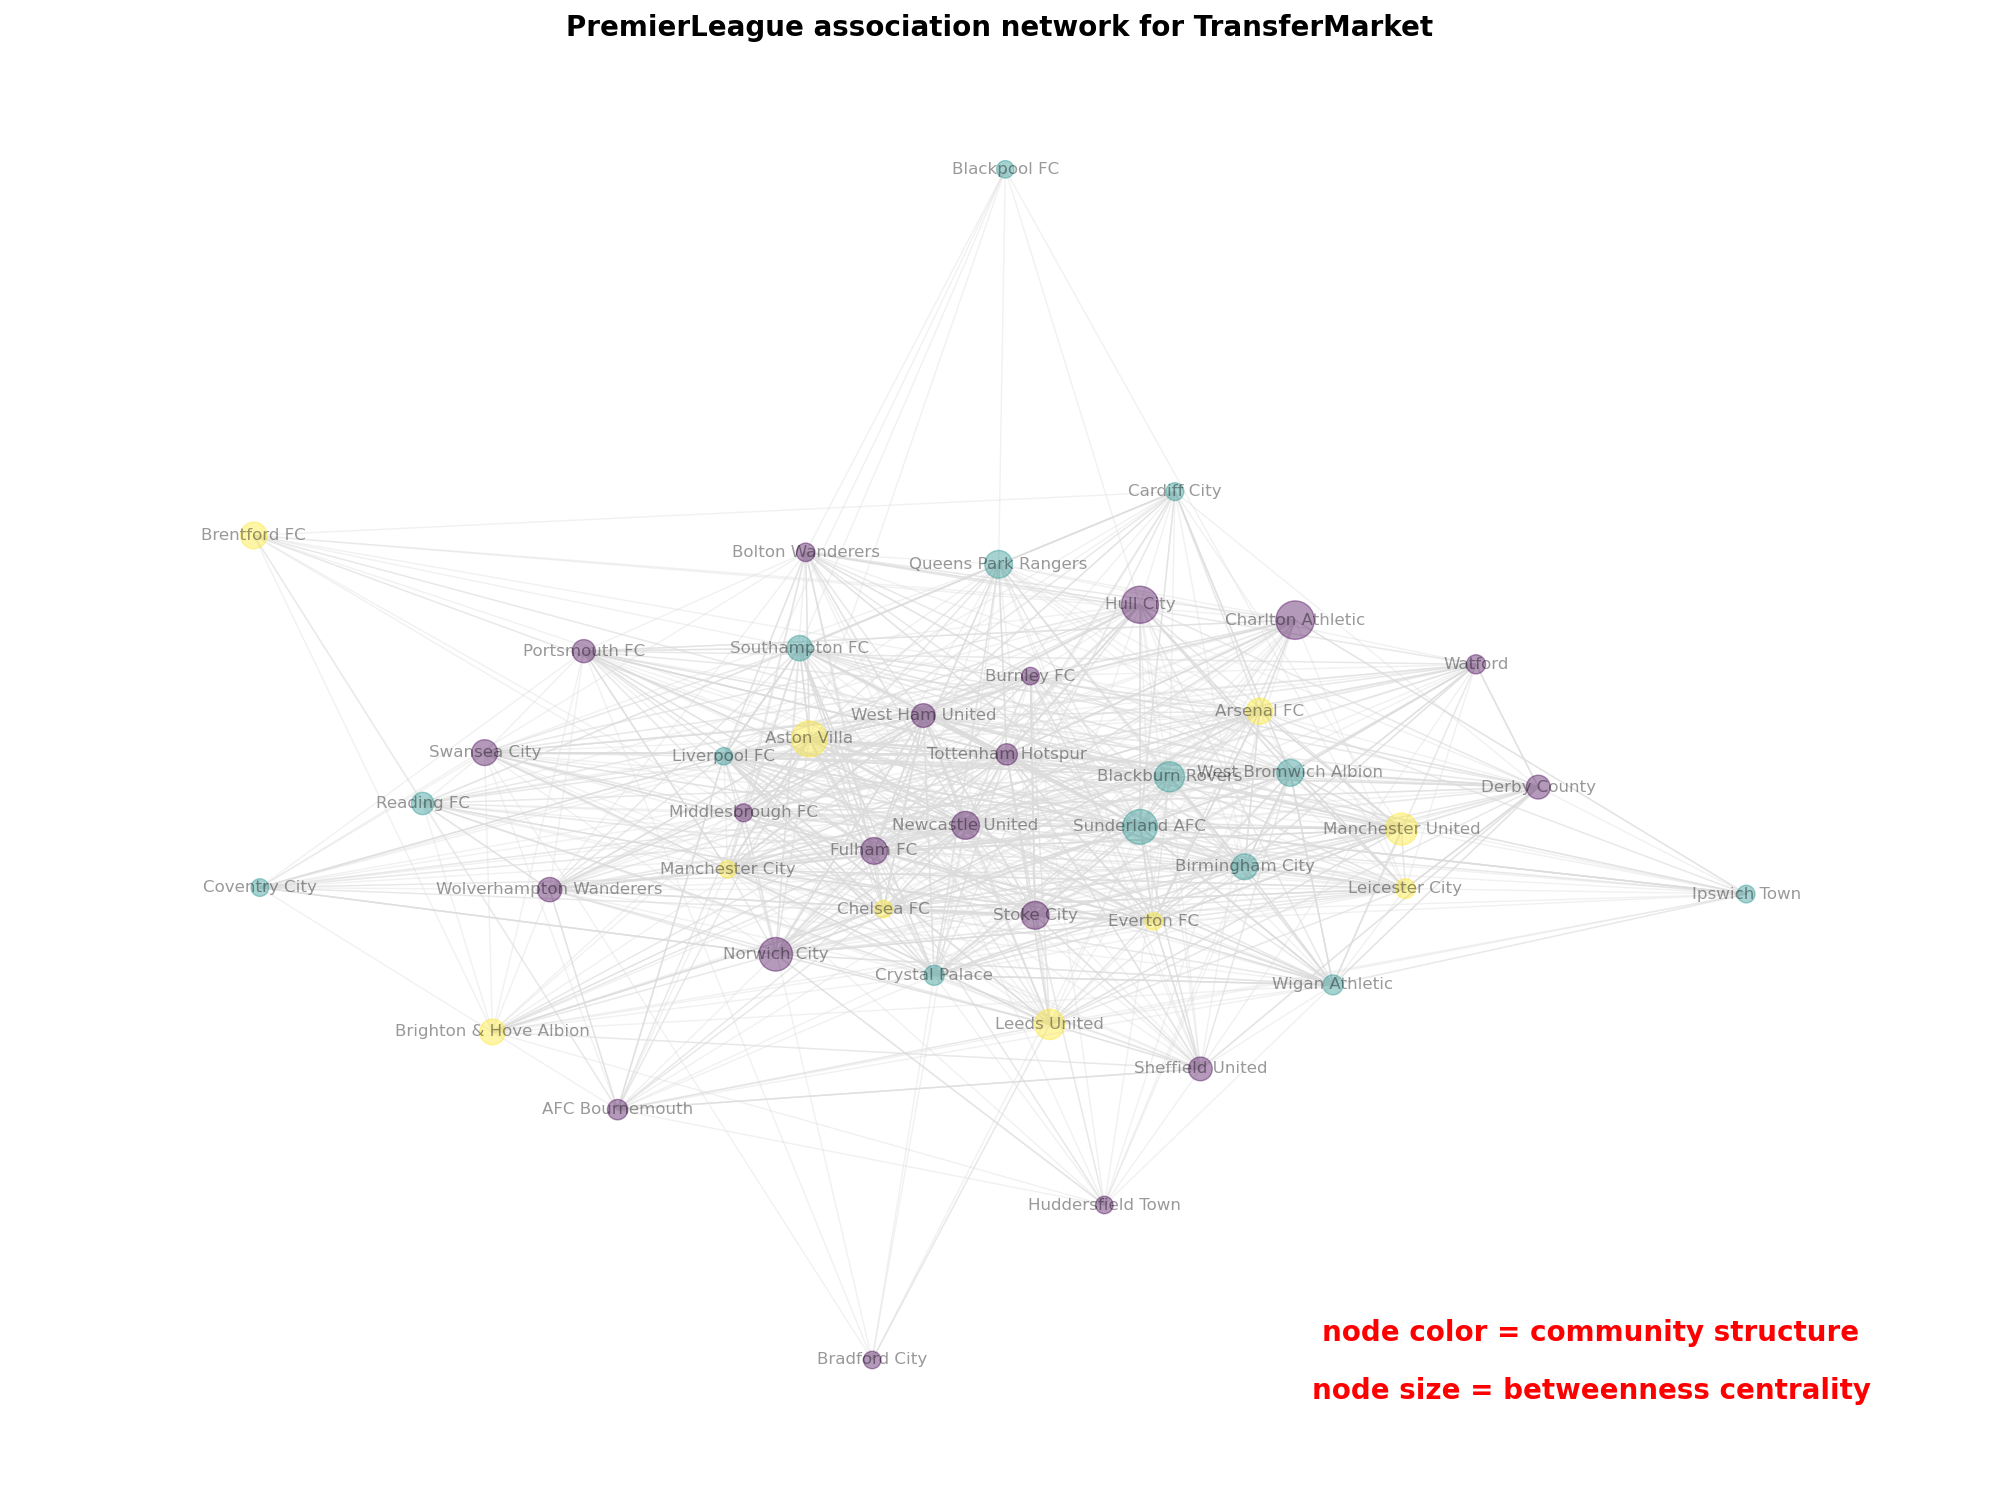
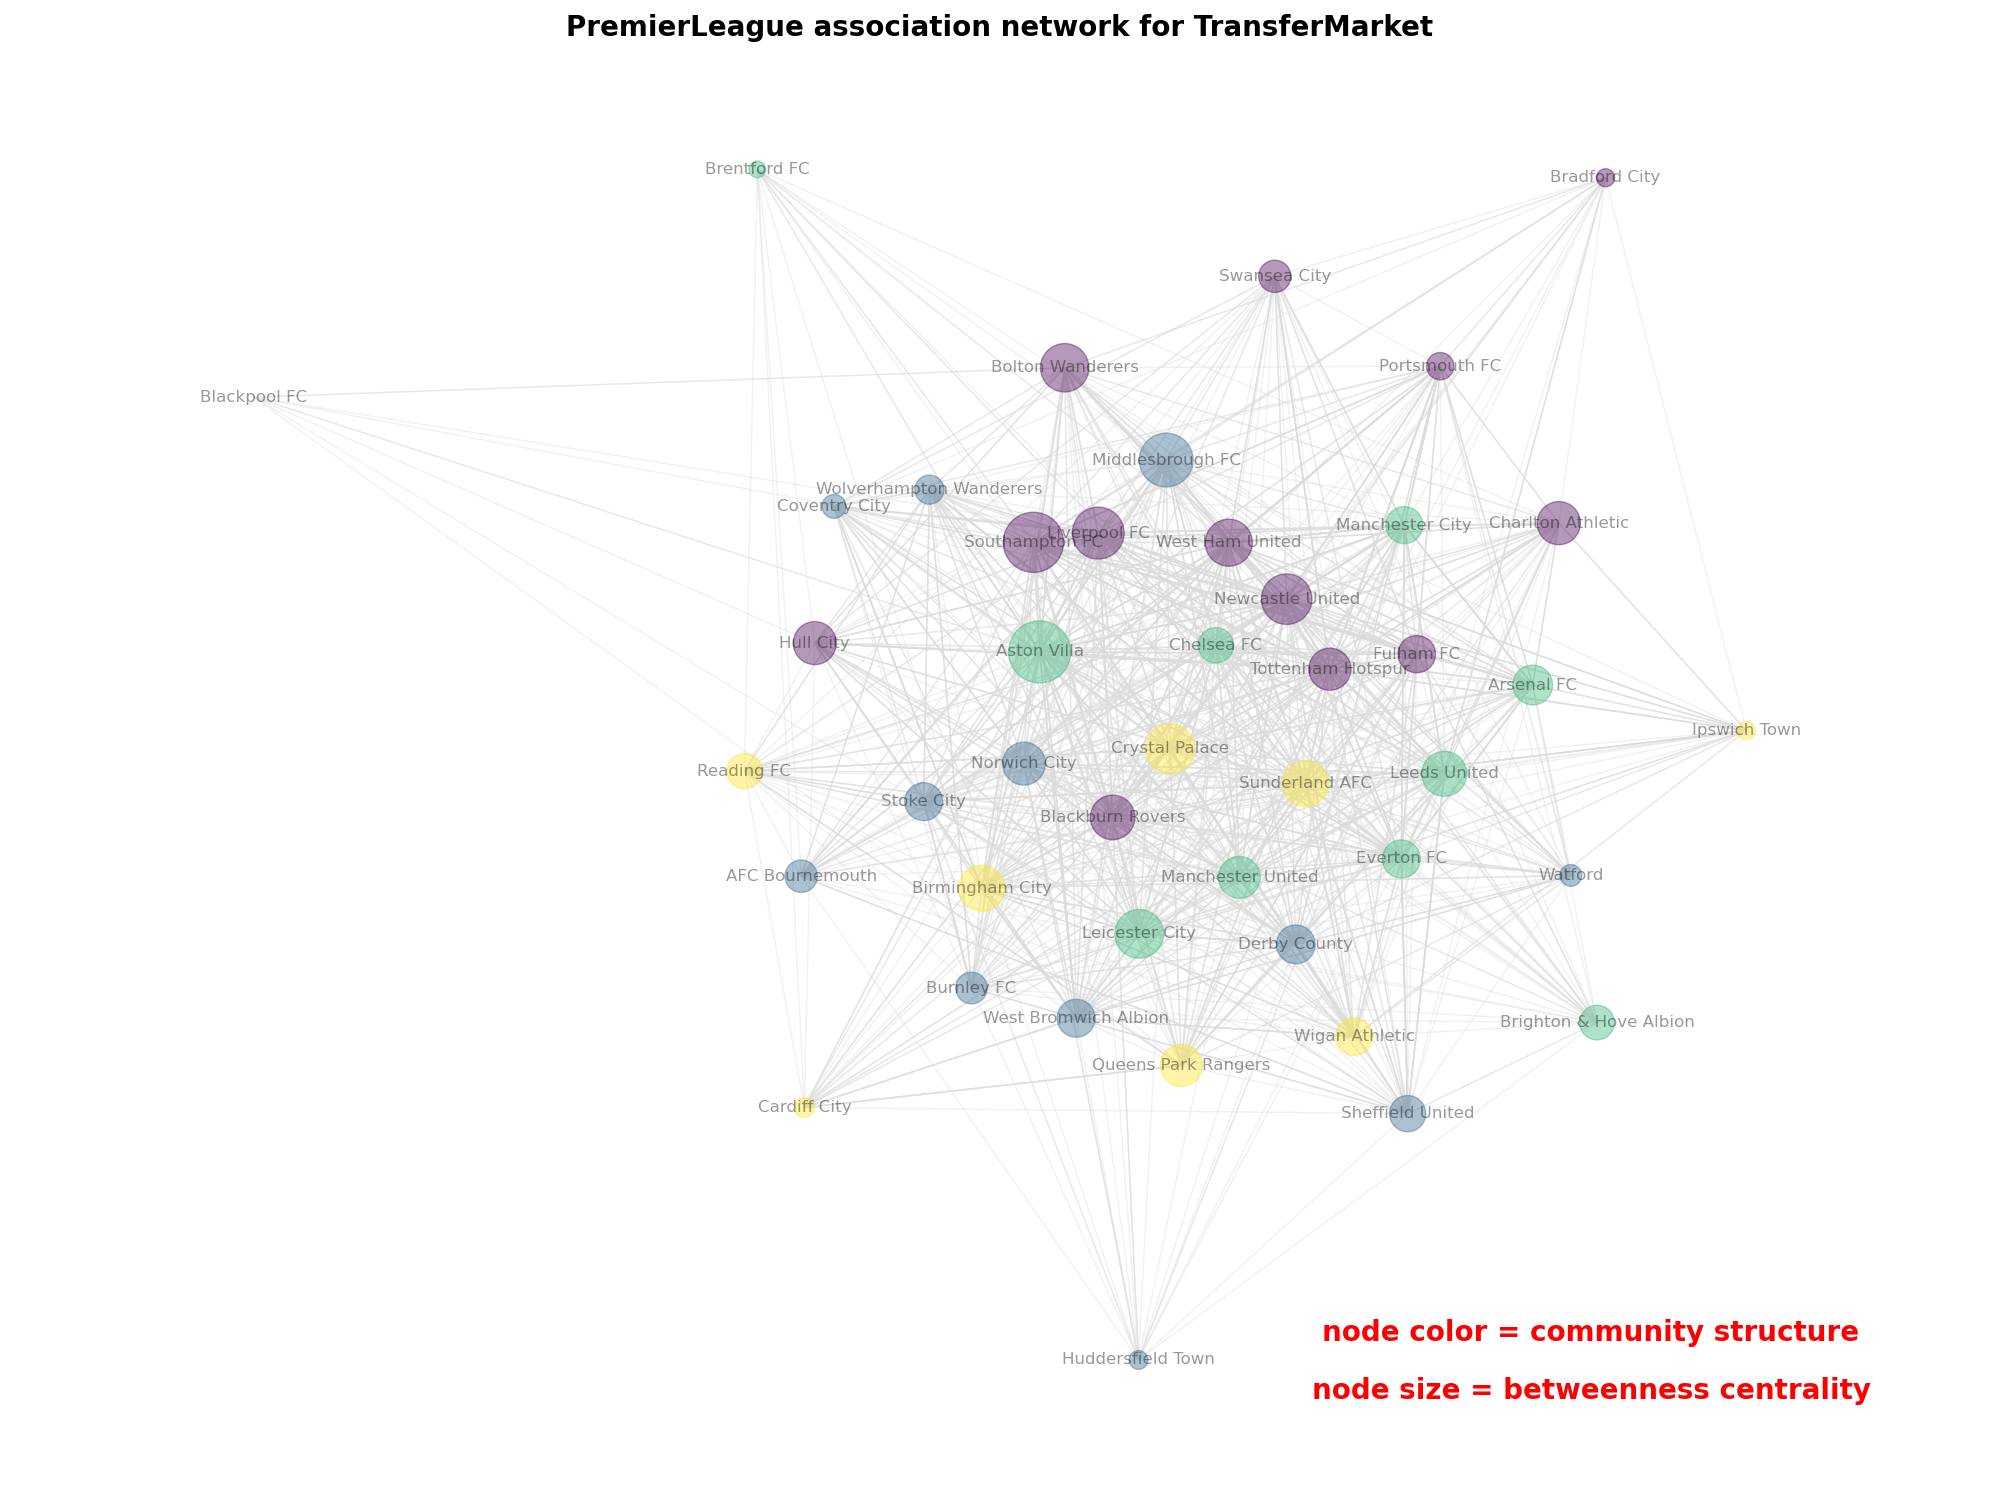
Added btw plot for Premier League

diff --git a/src/main.py b/src/main.py
@@ -168,9 +168,9 @@ def new_execution():
     prem_stats = prep.average_stats()
     prem_teams = list(prem_stats.keys())
 
-    # prem_order_comm, prem_graph = comm.process_community_graph_update(prem_soccer, False, 3, prem_teams)
+    prem_order_comm, prem_graph = comm.process_community_graph_update(prem_soccer, True, 3, prem_teams)
     
-    # prem_ordered = data_community(prem_order_comm, prem_stats, False)
+    prem_ordered = data_community(prem_order_comm, prem_stats, False)
     #print(prem_ordered)
     #print([e for e in prem_graph.edges.data()])
     #print(prem_graph)
@@ -223,18 +223,17 @@ def new_execution():
     # sc.study(prem_ordered, prem_stats, prem_soccer)
     
     """ Obtain omega value to calculate the small-world property of the given graph"""
-    league_soccer, league_teams = util.create_dict(6)
-    #league_teams = list(league_soccer.keys())
-    print(len(league_teams))
+    # league_soccer, league_teams = util.create_dict(6)
+    # print(len(league_teams))
     
-    league_order_comm, league_graph = comm.process_community_graph_update(league_soccer, False, 3, league_teams)
+    # league_order_comm, league_graph = comm.process_community_graph_update(league_soccer, False, 3, league_teams)
     
-    league_ordered = data_community(league_order_comm, prem_stats, False)
-    print(league_ordered)
-    print(league_graph)
+    # league_ordered = data_community(league_order_comm, prem_stats, False)
+    # print(league_ordered)
+    # print(league_graph)
     
-    omega = sc.obtain_omega_small_world(league_graph)
-    print(omega)
+    # omega = sc.obtain_omega_small_world(league_graph)
+    # print(omega)
     
     exit()
     

diff --git a/src/communities.py b/src/communities.py
@@ -4,6 +4,7 @@ import matplotlib.pyplot as plt
 from networkx.algorithms import approximation as approx
 import itertools
 from stats_comm import StatsAndCommunities
+from utils import Utils
 import math
 
 
@@ -25,7 +26,7 @@ class Community:
         fig, ax = plt.subplots(figsize=(20, 15))
         pos = nx.spring_layout(graph, k=0.15, seed=4572321)
         node_color = [com_index[n] for n in graph]
-        node_size = [v * 3500 for v in centrality.values()]
+        node_size = [v * 2000 for v in centrality.values()]
         nx.draw_networkx(
             graph,
             pos=pos,
@@ -120,7 +121,7 @@ class Community:
         Refined MultiGraph dictionary. UTILS()
     """
     def process_community_graph_update(self, soccer_dict, is_plotting, title_text, teams):
-        
+        util = Utils()
         trim_graph = nx.MultiGraph() # MultiGraph will hold parallel edges, but for the study we've done so far, that's not relevant.
         trim_graph.add_nodes_from(teams)
 
@@ -146,7 +147,8 @@ class Community:
         # print(largest_component)
 
         # Compute centrality
-        centrality = nx.betweenness_centrality(trim_graph, k=31, normalized=False, endpoints=False)
+        centrality = nx.betweenness_centrality(trim_graph, k=44, normalized=False, endpoints=False)
+        centrality = util.normalize_btw(centrality)
 
         # Run algorithm
         comm = nx.community.greedy_modularity_communities(trim_graph, weight='fee', best_n=5)
